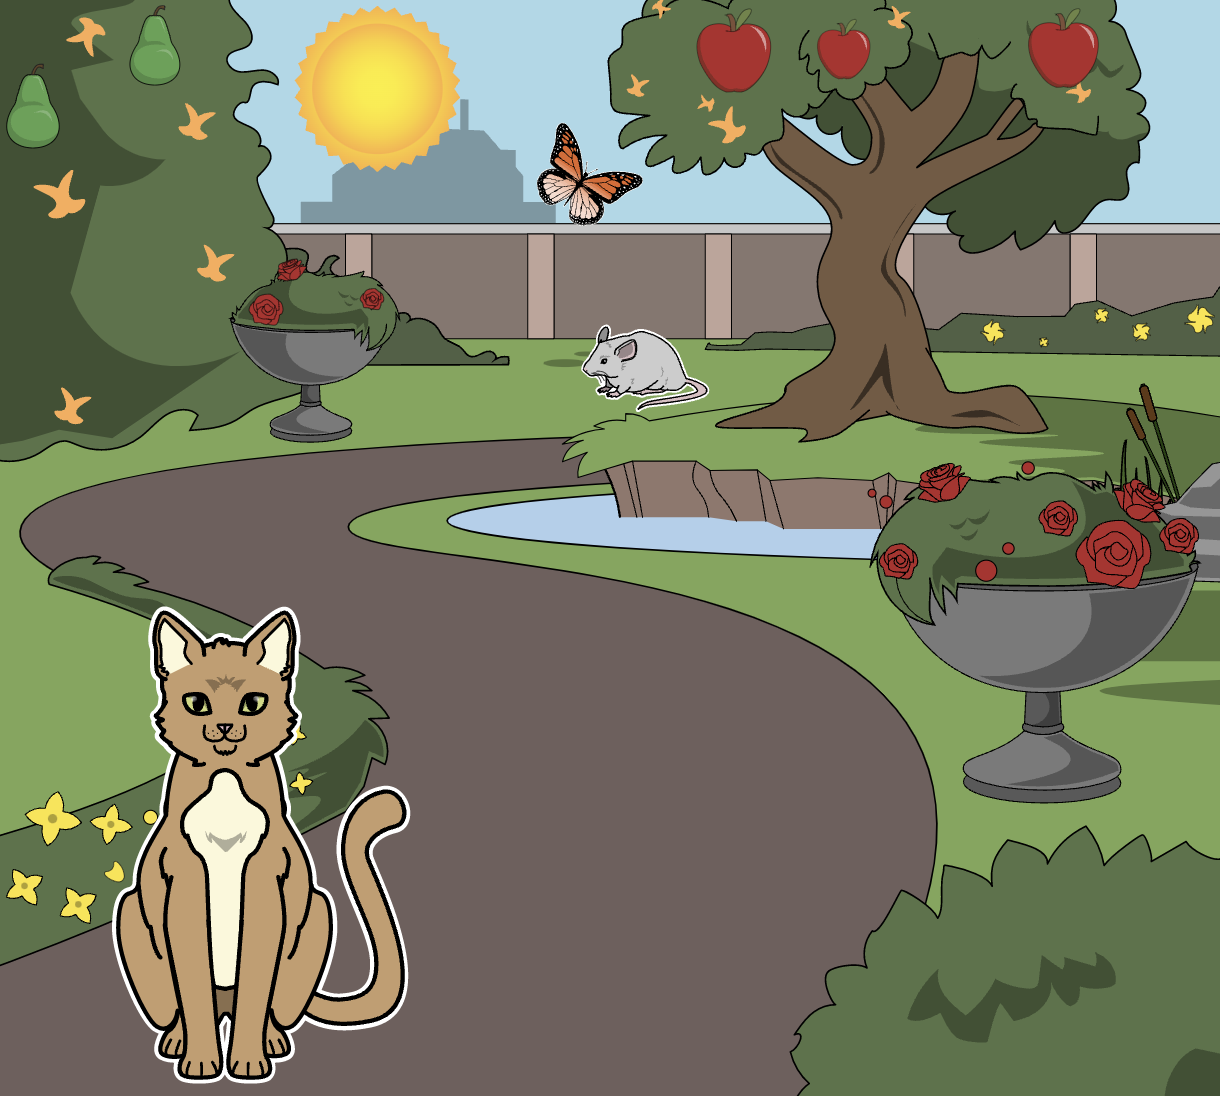
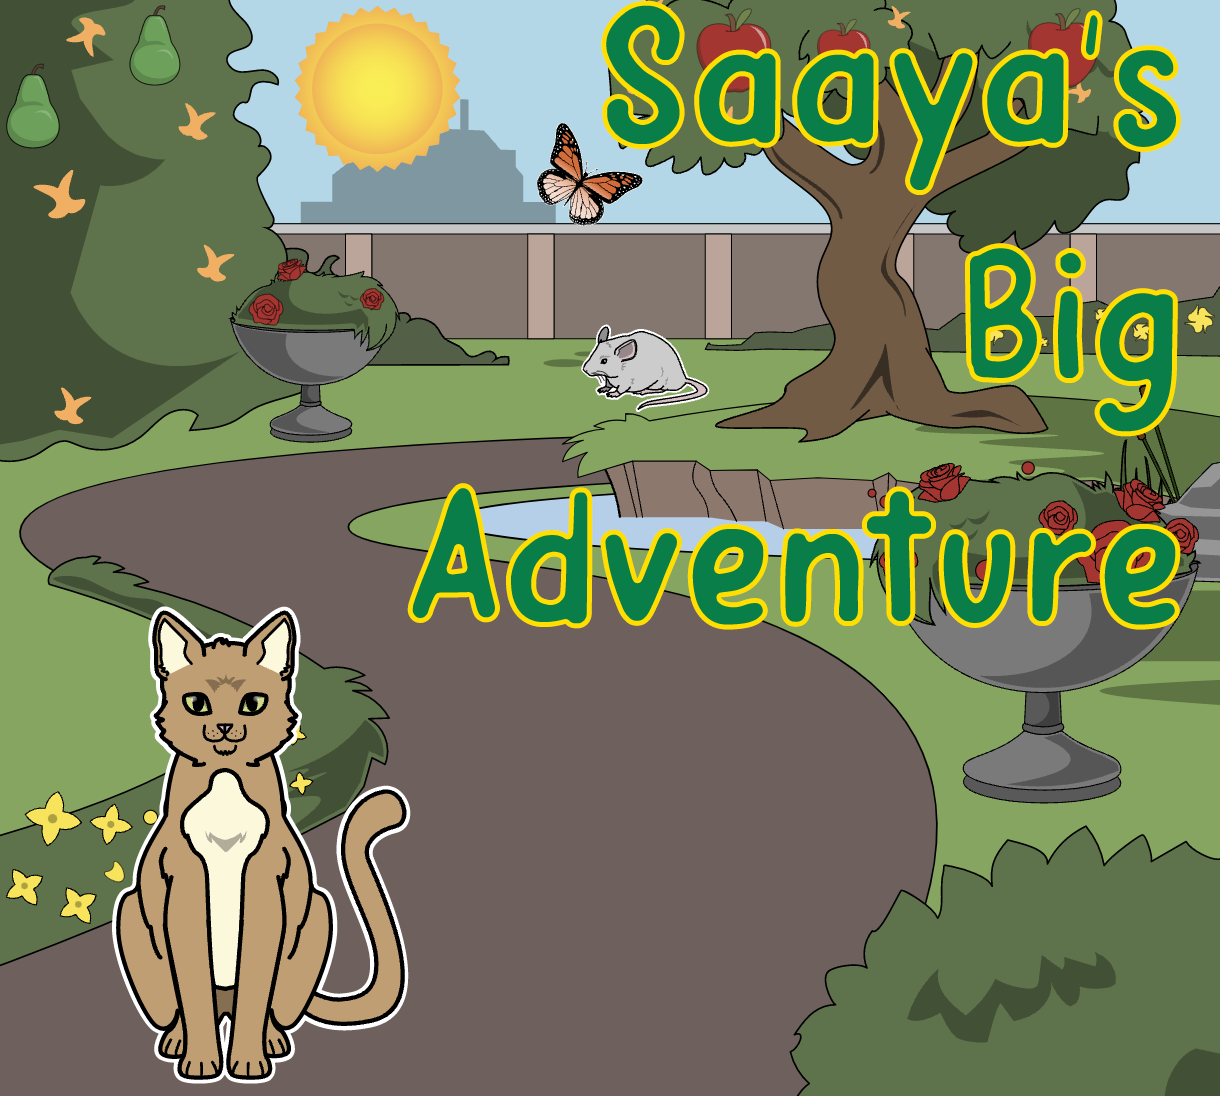
Changed MainMenu Image

Changed region(s): [[0.3115, 0.4343, 0.9656, 0.5894], [0.4672, 0.0, 0.9656, 0.1861], [0.7787, 0.2172, 0.9656, 0.4033]]

diff --git a/src/main/java/edu/pacific/comp55/starter/MenuPane.java b/src/main/java/edu/pacific/comp55/starter/MenuPane.java
@@ -14,7 +14,7 @@ public class MenuPane extends GraphicsPane {
 	private GButton start;
 	private GButton quit;
 	private GImage background;
-	private GLabel title;
+	//private GLabel title;
 
 	public MenuPane(MainApplication app) {
 		super();
@@ -24,17 +24,17 @@ public class MenuPane extends GraphicsPane {
 		start.setFillColor(Color.GREEN);
 		quit.setFillColor(Color.RED);
 		background = new GImage("2.png", 0, 0);
-		title = new GLabel("SAYA'S BIG ADVENTURE", 300, 300);
-		title.setFont("TimesRoman");
-		title.scale(5, 5);
-		title.setColor(Color.BLUE);
+		//title = new GLabel("SAYA'S BIG ADVENTURE", 300, 300);
+		//title.setFont("TimesRoman");
+		//title.scale(5, 5);
+		//title.setColor(Color.BLUE);
 		displayGameObjectContents();
 		
 	}
 	
 	public void displayGameObjectContents() {
 		program.add(background);
-		program.add(title);
+		//program.add(title);
 		program.add(start);
 		program.add(quit);
 	}
@@ -61,7 +61,7 @@ public class MenuPane extends GraphicsPane {
 		if (obj == start) {
 			//program.switchToTTT();
 			//program.switchToMouse();
-			program.switchToScene2();
+			program.switchToScene1();
 		}
 		else if (obj == quit){
 			System.exit(0);
